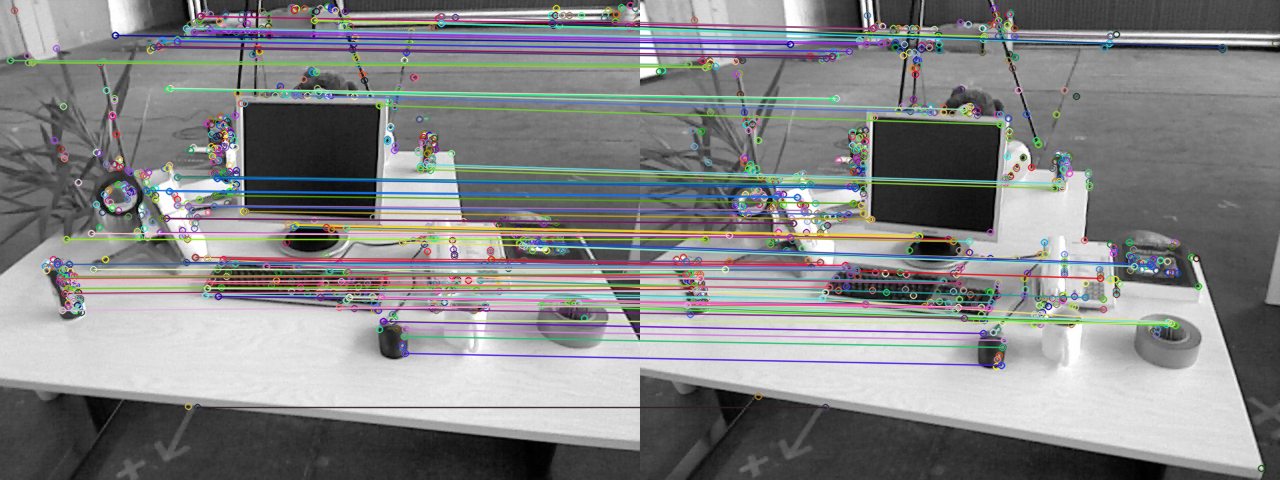
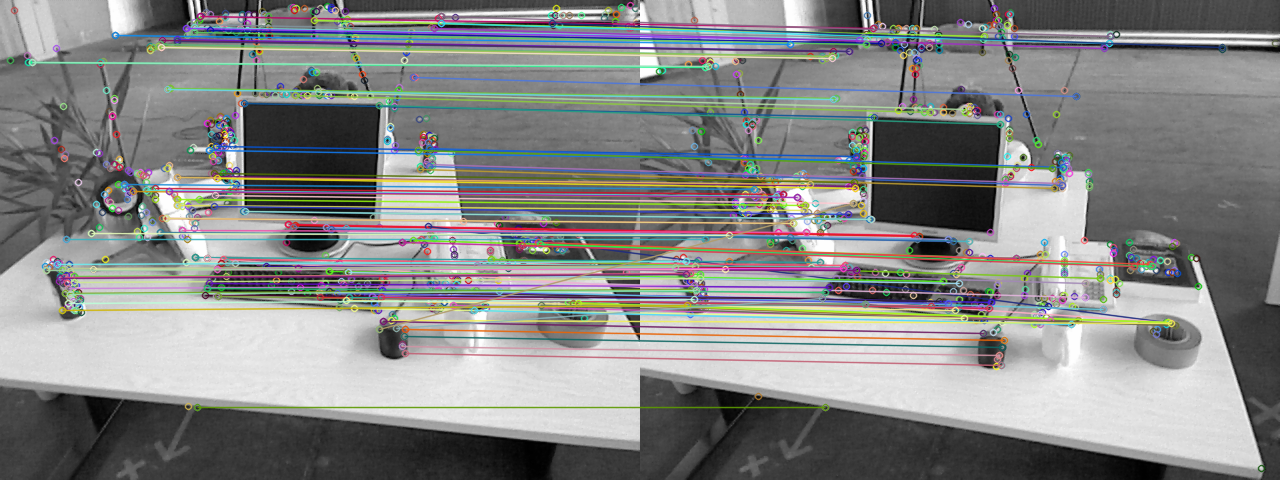
modify the Brute-force matching method

diff --git a/computeORB.cpp b/computeORB.cpp
@@ -406,10 +406,10 @@ void computeORBDesc(const cv::Mat &image, vector<cv::KeyPoint> &keypoints, vecto
             // START YOUR CODE HERE (~7 lines)
             int u_p=ORB_pattern[i*4],v_p = ORB_pattern[1+i*4];
             int u_q = ORB_pattern[2+i*4],v_q = ORB_pattern[3+i*4];
-            if(kp.pt.x + u_p < 0 && kp.pt.x+u_p > image.cols && kp.pt.y+v_p < 0 && kp.pt.y+v_p > image.rows
-                    && kp.pt.x + u_q < 0 && kp.pt.x+u_q > image.cols && kp.pt.y+v_q < 0 && kp.pt.y+v_q > image.rows){
+            if(kp.pt.x + u_p < 0 || kp.pt.x+u_p > image.cols || kp.pt.y+v_p < 0 || kp.pt.y+v_p > image.rows
+                    || kp.pt.x + u_q < 0 || kp.pt.x+u_q > image.cols || kp.pt.y+v_q < 0 || kp.pt.y+v_q > image.rows){
                 d.clear();
-                continue;
+                break;
             } else{
 
                 float u_pr=a*u_p - b*v_p, v_pr = b*u_p + a*v_p;
@@ -425,17 +425,17 @@ void computeORBDesc(const cv::Mat &image, vector<cv::KeyPoint> &keypoints, vecto
         }
 
         //相对位置方法
-      /*  const uchar* center= &image.at<uchar>(cvRound(kp.pt.y),cvRound(kp.pt.x));
+       /* const uchar* center= &image.at<uchar>(cvRound(kp.pt.y),cvRound(kp.pt.x));
         int step = (int)image.step;
 
         for (int i = 0; i < 256; i++) {
             // START YOUR CODE HERE (~7 lines)
             int u_p=ORB_pattern[i*4],v_p = ORB_pattern[1+i*4];
             int u_q = ORB_pattern[2+i*4],v_q = ORB_pattern[3+i*4];
-            if(kp.pt.x + u_p < 0 && kp.pt.x+u_p > image.cols && kp.pt.y+v_p < 0 && kp.pt.y+v_p > image.rows
-               && kp.pt.x + u_q < 0 && kp.pt.x+u_q > image.cols && kp.pt.y+v_q < 0 && kp.pt.y+v_q > image.rows){
+            if(kp.pt.x + u_p < 0 || kp.pt.x+u_p > image.cols || kp.pt.y+v_p < 0 || kp.pt.y+v_p > image.rows
+               || kp.pt.x + u_q < 0 || kp.pt.x+u_q > image.cols || kp.pt.y+v_q < 0 || kp.pt.y+v_q > image.rows){
                 d.clear();
-                continue;
+                break;
             } else{
 
                 float u_pr=a*u_p - b*v_p, v_pr = b*u_p + a*v_p;
@@ -451,6 +451,7 @@ void computeORBDesc(const cv::Mat &image, vector<cv::KeyPoint> &keypoints, vecto
             // if kp goes outside, set d.clear()
             // END YOUR CODE HERE
         }*/
+
         desc.push_back(d);
     }
 
@@ -464,17 +465,19 @@ void computeORBDesc(const cv::Mat &image, vector<cv::KeyPoint> &keypoints, vecto
 
 // brute-force matching
 void bfMatch(const vector<DescType> &desc1, const vector<DescType> &desc2, vector<cv::DMatch> &matches) {
-    int d_max = 45;
+    int d_max = 50  ;
 
     // START YOUR CODE HERE (~12 lines)
     int m=-1;
     for(auto des1:desc1){
         m++;
+        if(des1.empty()) continue;
         int distance = 1000,tempdis,index;
         cv::DMatch match;
         int n=-1;
         for(auto des2:desc2){
             n++;
+            if(des2.empty()) continue;//注意在下标累加之后再判断是否为空，否则会导致匹配出的描述子对应关系出错
             for (int i = 0; i <256 ; ++i) {
                 if(des1[i]!=des2[i])
                     tempdis++;
@@ -494,7 +497,7 @@ void bfMatch(const vector<DescType> &desc1, const vector<DescType> &desc2, vecto
             match.distance = distance;
             matches.push_back(match);
 
-        } else{  continue;}
+        } //else{  continue;}
     }
     // find matches between desc1 and desc2. 
     // END YOUR CODE HERE

diff --git a/draw.cpp b/draw.cpp
@@ -96,7 +96,7 @@ int main(int argc, char **argv) {
     // draw trajectory in pangolin
     //DrawTrajectory(poses_e);
    // thread1.detach();
-   DrawTrajectory(poses_g,poses_e);//同时显示两个轨迹
+   DrawTrajectory(poses_g,poses_e);
 
     return 0;
 }
